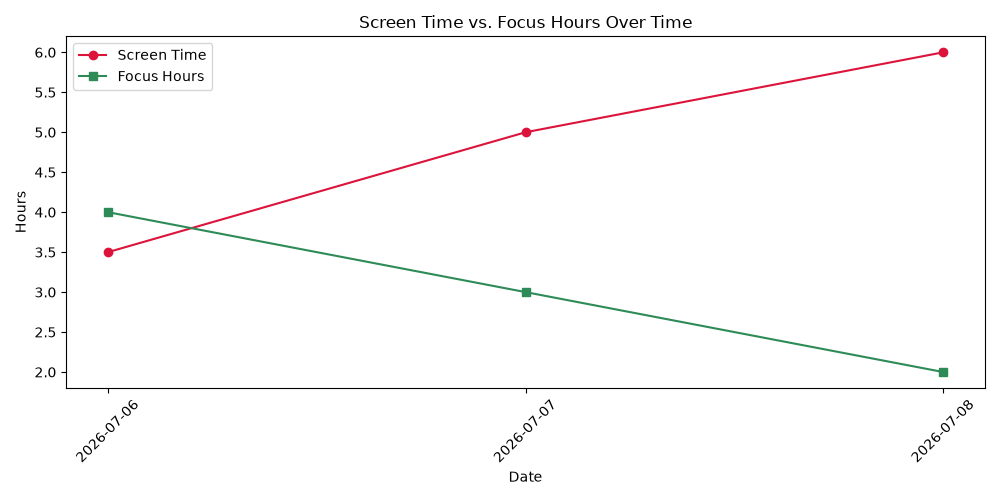
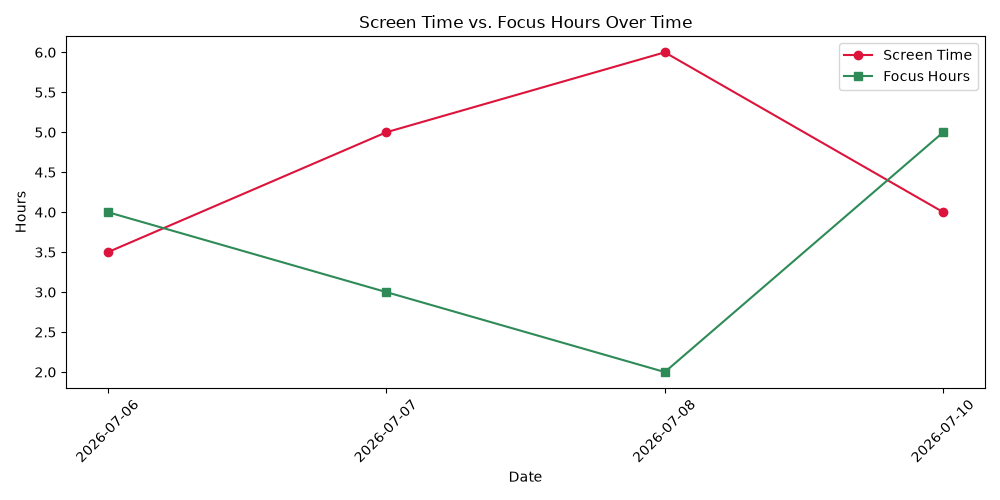
Add data and force refresh for day 4

diff --git a/README.md b/README.md
@@ -1,1 +1,3 @@
 # 📊 Daily Data Tracker
+
+- Day 4 Update: 2026-07-10 10:08:05